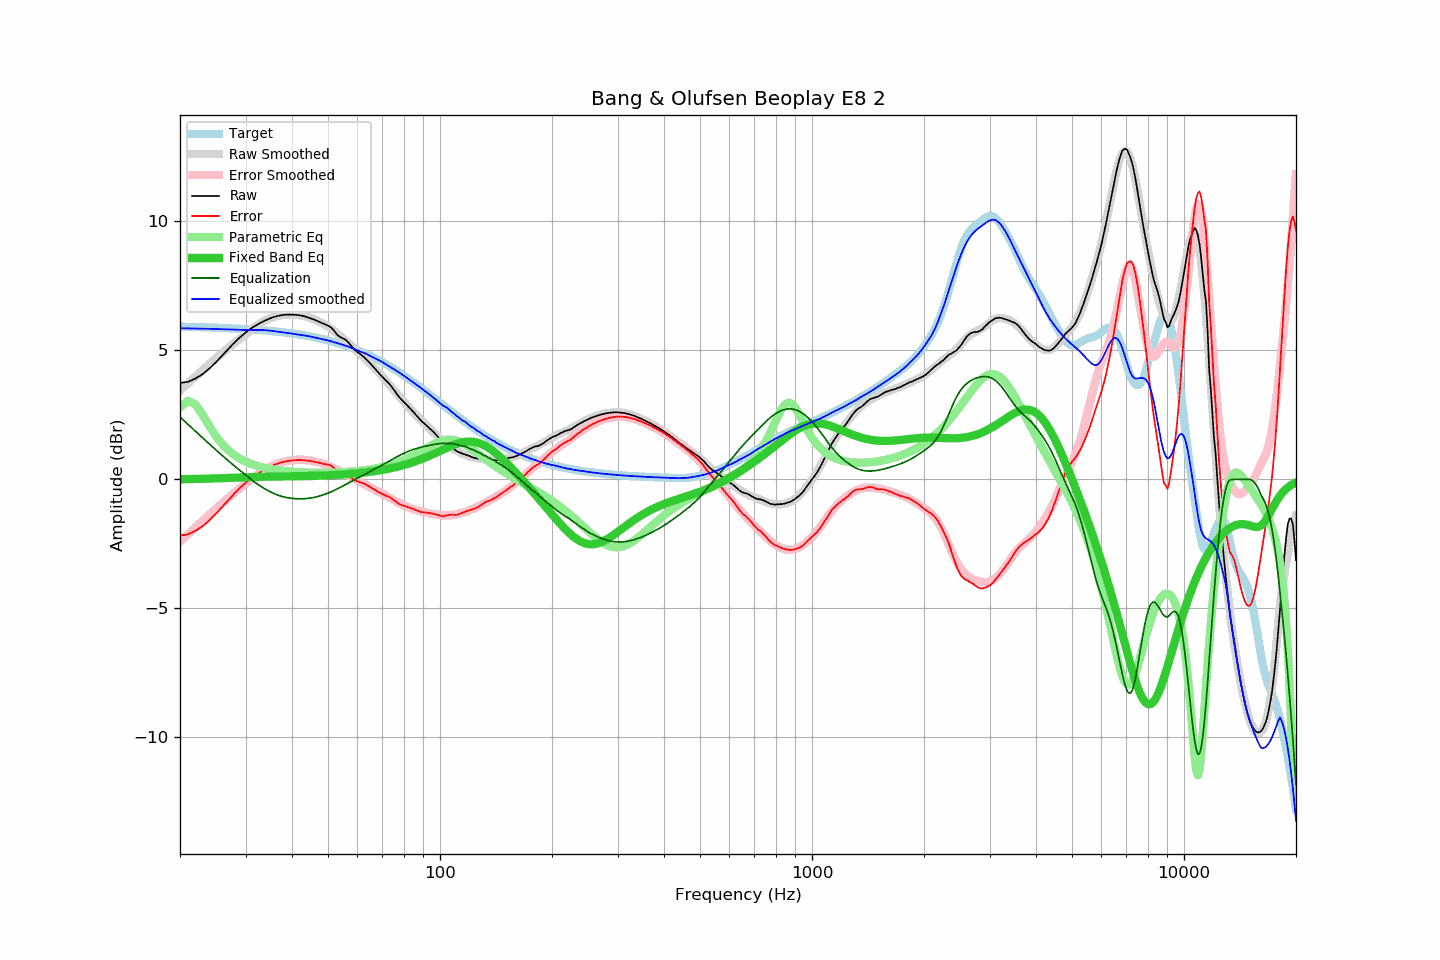
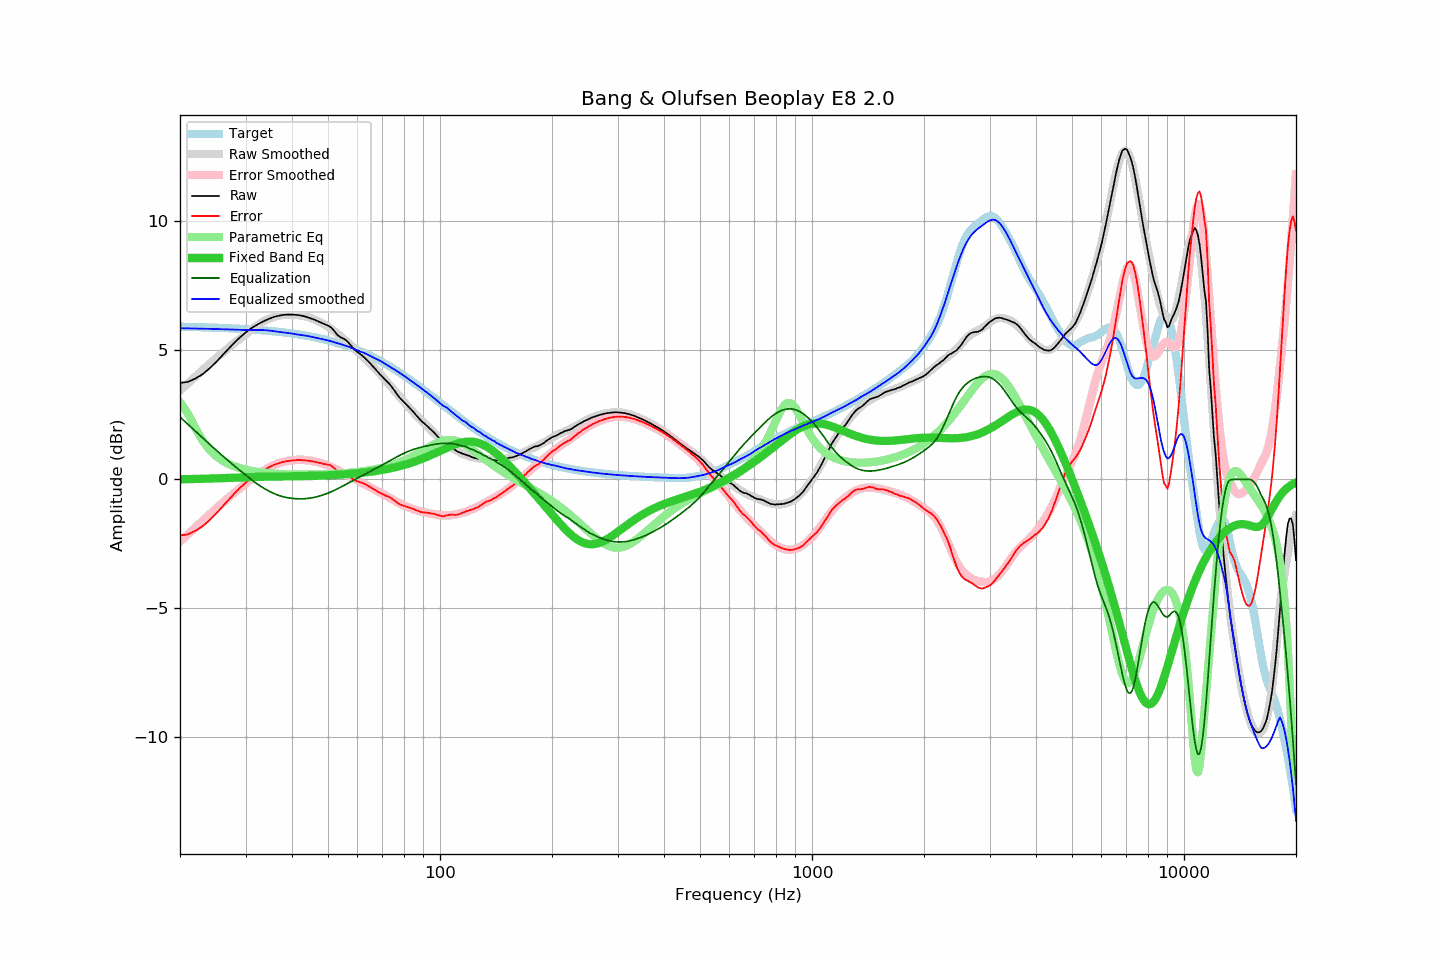
Fixed Bang & Olufsen Beoplay E8 2.0 and Parrot Zik 2.0.

Changed region(s): [[0.4062, 0.0938, 0.625, 0.125], [0.125, 0.4062, 0.2188, 0.5]]

diff --git a/results/rtings/avg/Bang & Olufsen Beoplay E8 2.0/README.md b/results/rtings/avg/Bang & Olufsen Beoplay E8 2.0/README.md
@@ -1,2 +1,40 @@
-# Bang & Olufsen Beoplay E8 2
+# Bang & Olufsen Beoplay E8 2.0
 See [usage instructions](https://github.com/jaakkopasanen/AutoEq#usage) for more options and info.
+
+### Parametric EQs
+In case of using parametric equalizer, apply preamp of **-4.7dB** and build filters manually
+with these parameters. The first 5 filters can be used independently.
+When using independent subset of filters, apply preamp of **-4.7dB**.
+
+| Type    | Fc       |    Q | Gain     |
+|:--------|:---------|:-----|:---------|
+| Peaking | 864 Hz   | 3.31 | 3.0 dB   |
+| Peaking | 3090 Hz  | 1.56 | 4.5 dB   |
+| Peaking | 7043 Hz  | 2.25 | -7.9 dB  |
+| Peaking | 10856 Hz | 4.24 | -10.0 dB |
+| Peaking | 19760 Hz | 1.43 | -11.4 dB |
+| Peaking | 20 Hz    | 2.91 | 2.2 dB   |
+| Peaking | 107 Hz   | 1.76 | 1.7 dB   |
+| Peaking | 299 Hz   | 1.46 | -2.8 dB  |
+| Peaking | 11688 Hz | 4.39 | -2.3 dB  |
+| Peaking | 13257 Hz | 2.03 | 2.3 dB   |
+
+### Fixed Band EQs
+In case of using fixed band (also called graphic) equalizer, apply preamp of **-3.2dB**
+(if available) and set gains manually with these parameters.
+
+| Type    | Fc       |    Q | Gain    |
+|:--------|:---------|:-----|:--------|
+| Peaking | 31 Hz    | 1.41 | 0.0 dB  |
+| Peaking | 62 Hz    | 1.41 | -0.0 dB |
+| Peaking | 125 Hz   | 1.41 | 1.9 dB  |
+| Peaking | 250 Hz   | 1.41 | -2.9 dB |
+| Peaking | 500 Hz   | 1.41 | -0.5 dB |
+| Peaking | 1000 Hz  | 1.41 | 2.1 dB  |
+| Peaking | 2000 Hz  | 1.41 | 0.9 dB  |
+| Peaking | 4000 Hz  | 1.41 | 3.8 dB  |
+| Peaking | 8000 Hz  | 1.41 | -9.3 dB |
+| Peaking | 16000 Hz | 1.41 | -1.3 dB |
+
+### Graphs
+![](./Bang%20&%20Olufsen%20Beoplay%20E8%202.0.png)

diff --git a/results/innerfidelity/sbaf-serious/Parrot Zik 2.0/README.md b/results/innerfidelity/sbaf-serious/Parrot Zik 2.0/README.md
@@ -1,2 +1,40 @@
-# Parrot Zik 2
+# Parrot Zik 2.0
 See [usage instructions](https://github.com/jaakkopasanen/AutoEq#usage) for more options and info.
+
+### Parametric EQs
+In case of using parametric equalizer, apply preamp of **-6.2dB** and build filters manually
+with these parameters. The first 5 filters can be used independently.
+When using independent subset of filters, apply preamp of **-6.2dB**.
+
+| Type    | Fc       |    Q | Gain     |
+|:--------|:---------|:-----|:---------|
+| Peaking | 22 Hz    | 0.79 | -12.2 dB |
+| Peaking | 60 Hz    | 1.15 | -3.0 dB  |
+| Peaking | 1978 Hz  | 1.81 | -11.4 dB |
+| Peaking | 3742 Hz  | 1.58 | 7.6 dB   |
+| Peaking | 11137 Hz | 2.08 | -9.7 dB  |
+| Peaking | 553 Hz   | 1.22 | 2.7 dB   |
+| Peaking | 5336 Hz  | 5.71 | -3.1 dB  |
+| Peaking | 6716 Hz  | 4.65 | 3.6 dB   |
+| Peaking | 8525 Hz  | 4.46 | 2.8 dB   |
+| Peaking | 9328 Hz  | 5.91 | -4.3 dB  |
+
+### Fixed Band EQs
+In case of using fixed band (also called graphic) equalizer, apply preamp of **-6.4dB**
+(if available) and set gains manually with these parameters.
+
+| Type    | Fc       |    Q | Gain     |
+|:--------|:---------|:-----|:---------|
+| Peaking | 31 Hz    | 1.41 | -11.8 dB |
+| Peaking | 62 Hz    | 1.41 | -3.2 dB  |
+| Peaking | 125 Hz   | 1.41 | -0.9 dB  |
+| Peaking | 250 Hz   | 1.41 | 0.4 dB   |
+| Peaking | 500 Hz   | 1.41 | 2.6 dB   |
+| Peaking | 1000 Hz  | 1.41 | 0.8 dB   |
+| Peaking | 2000 Hz  | 1.41 | -11.2 dB |
+| Peaking | 4000 Hz  | 1.41 | 8.7 dB   |
+| Peaking | 8000 Hz  | 1.41 | -3.9 dB  |
+| Peaking | 16000 Hz | 1.41 | -3.1 dB  |
+
+### Graphs
+![](./Parrot%20Zik%202.0.png)
